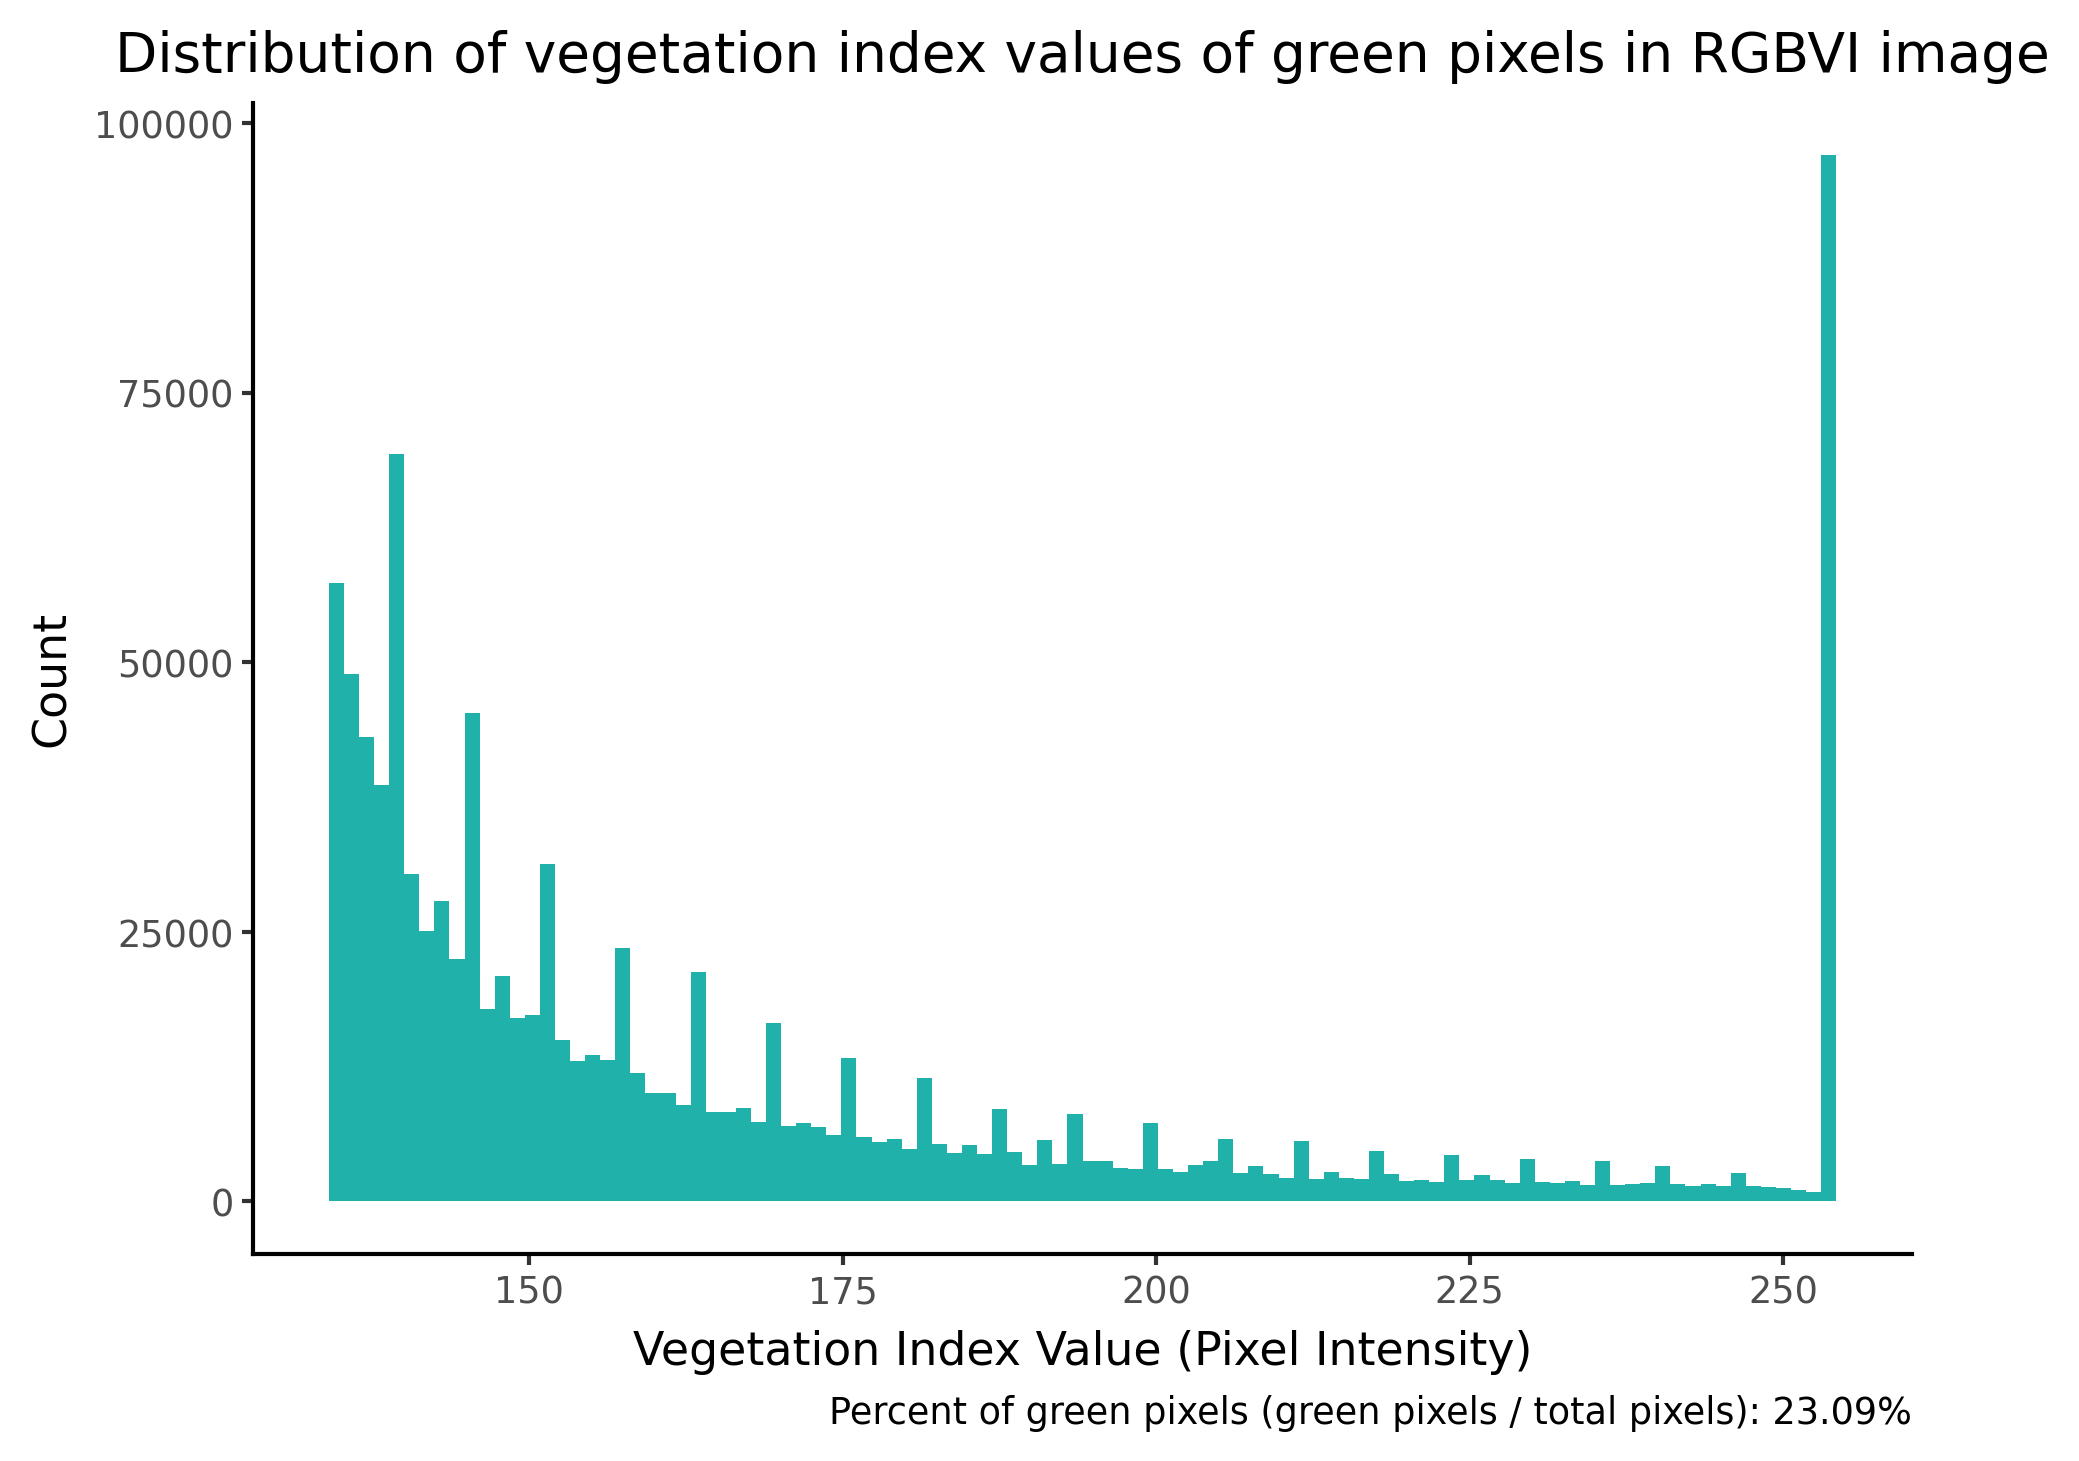
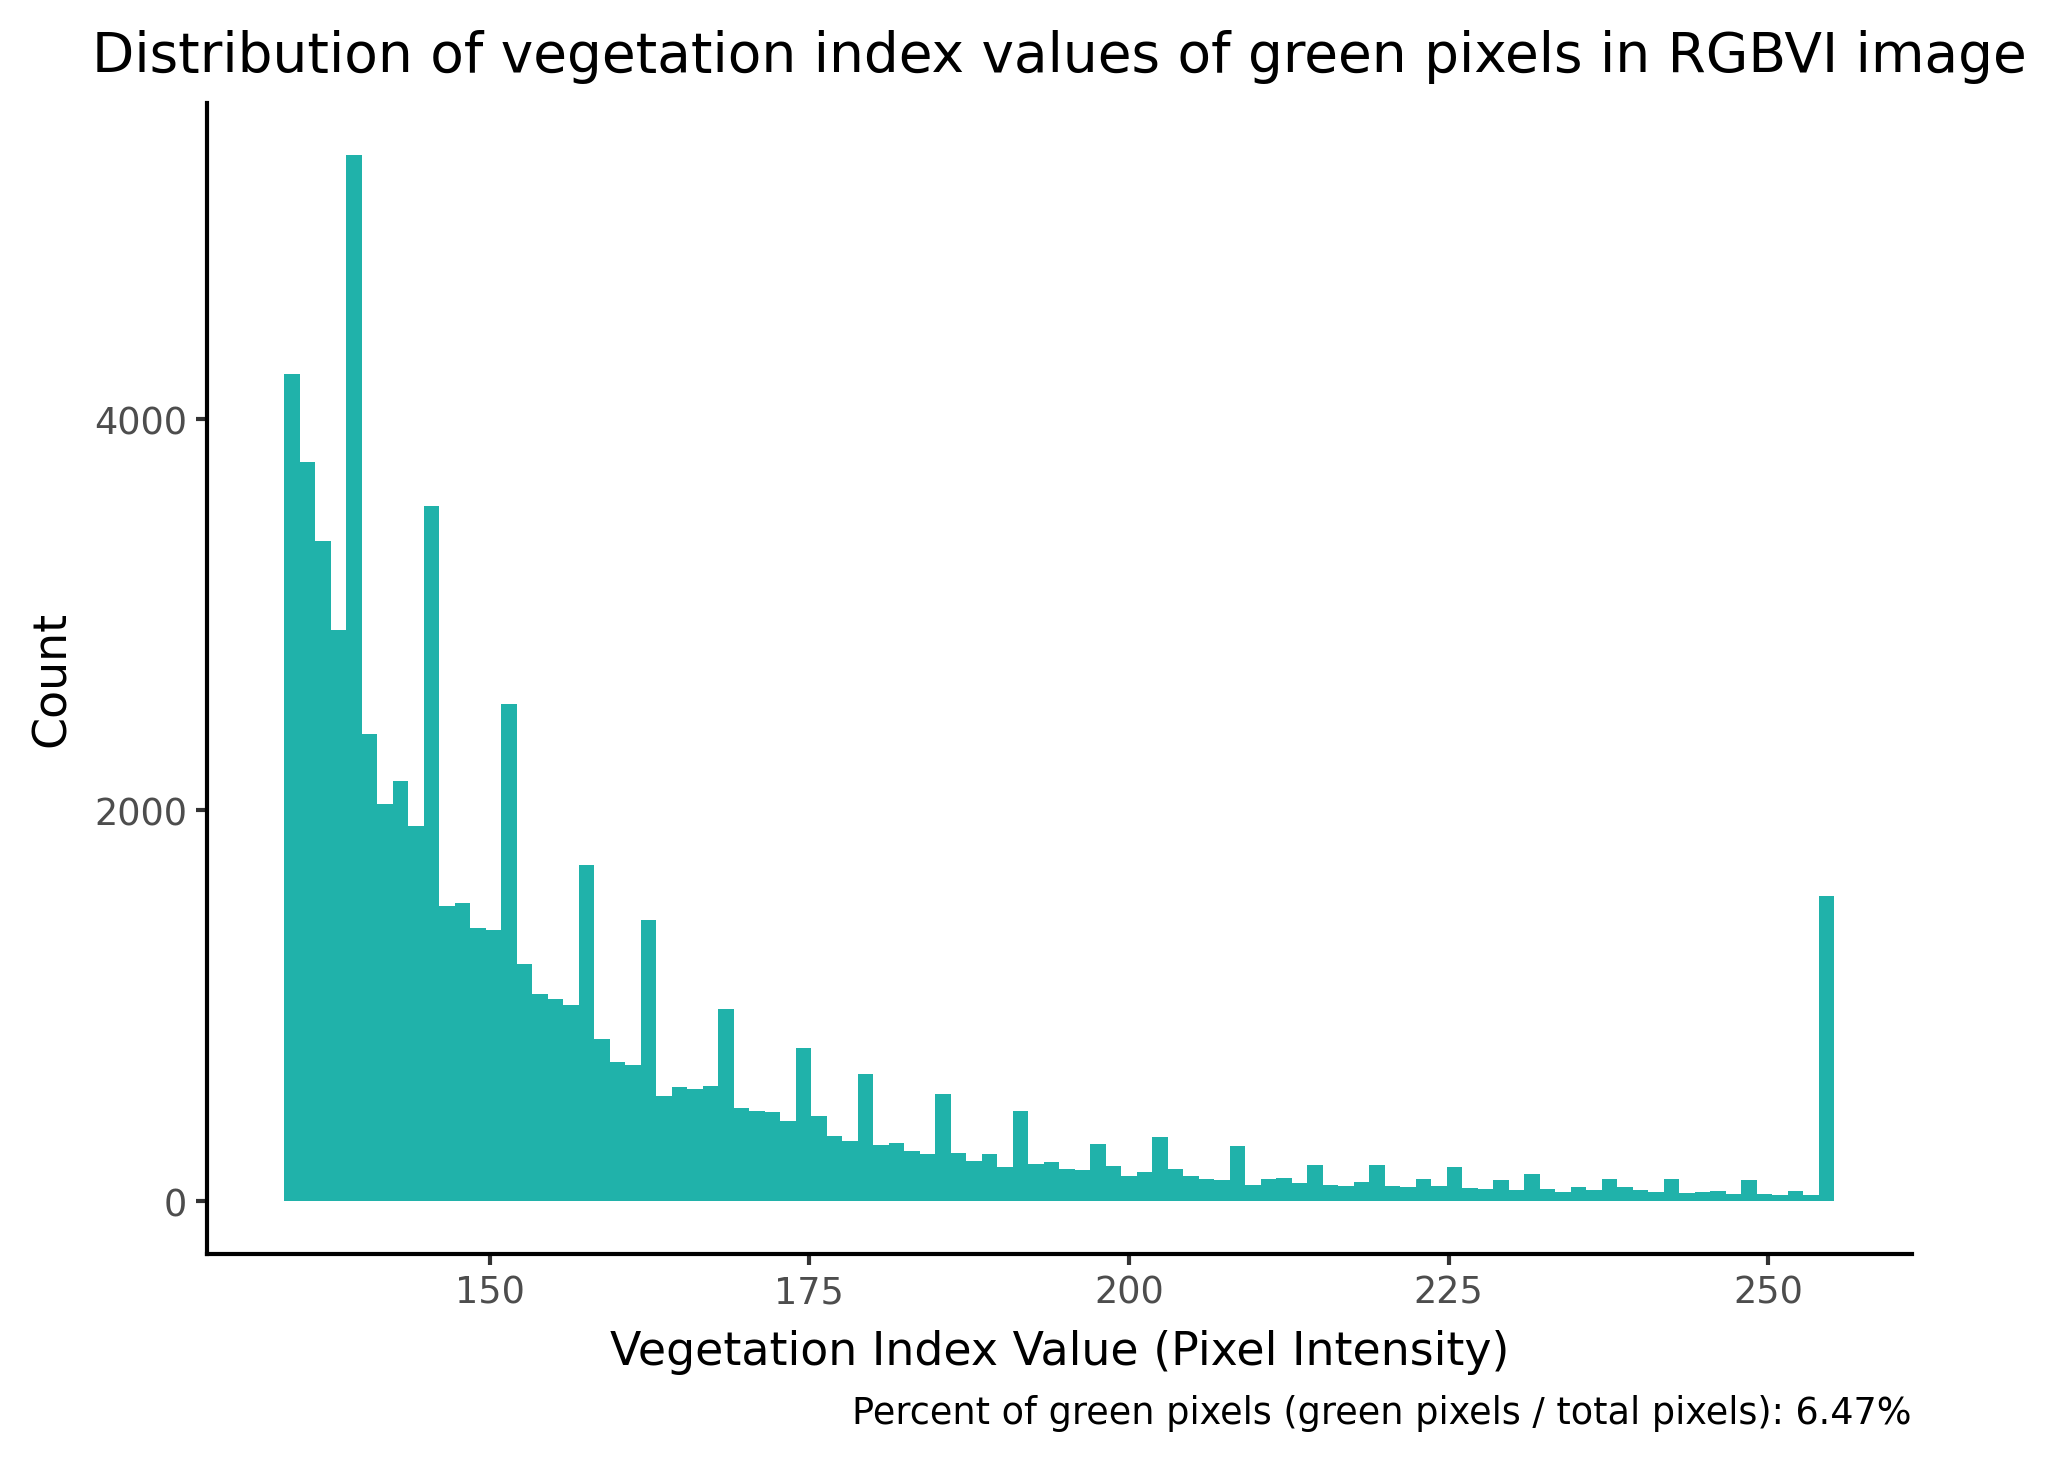
135 RGBVI threshold is best

diff --git a/master_script.py b/master_script.py
@@ -16,10 +16,10 @@ def main():
     '''
 
     # Enter path to input image here.
-    path = 'raw_photos/20240613_130807.jpg'
+    path = 'raw_photos/445991875_1138921583827054_5931898624603533558_n.jpg'
 
     # Enter output path and filename here.
-    output_path = 'results/master_script_output/example_135_thresh.jpg'
+    output_path = 'results/master_script_output/example_dirt_135_thresh.jpg'
 
     # Determine vegetation index that will be used
     index_type = 'RGBVI' # RGBVI worked well for my quadrat photos, ExG worked well on the willow leaf photos - feel free to experiment
@@ -32,7 +32,8 @@ def main():
     # plt.hist(vi_img.flatten(), bins = 100)
     # plt.show()
 
-    # Determine threshold that will differentiate between live and dead plants
+    # Determine threshold that will differentiate between live and dead plants.
+    # Or experiment with skimage filters like otsu and median.
     green_threshold = 135 # 130 worked well on quadrat photos. 160 worked well on willow leaf photos. 
 
     # Determine whether your photos need to be cropped or not. 
@@ -43,7 +44,7 @@ def main():
         run_script(path, output_path, index_type, green_threshold, crop)
     elif crop == True: # If the image gets cropped, you can output it to a file so you only have to crop it once
         cropped_img = run_script(path, output_path, index_type, green_threshold, crop)
-        cv2.imwrite(f'results/image_cropped.jpg', cropped_img)
+        plt.imsave(f'results/image_cropped.jpg', cropped_img)
 
 
 
